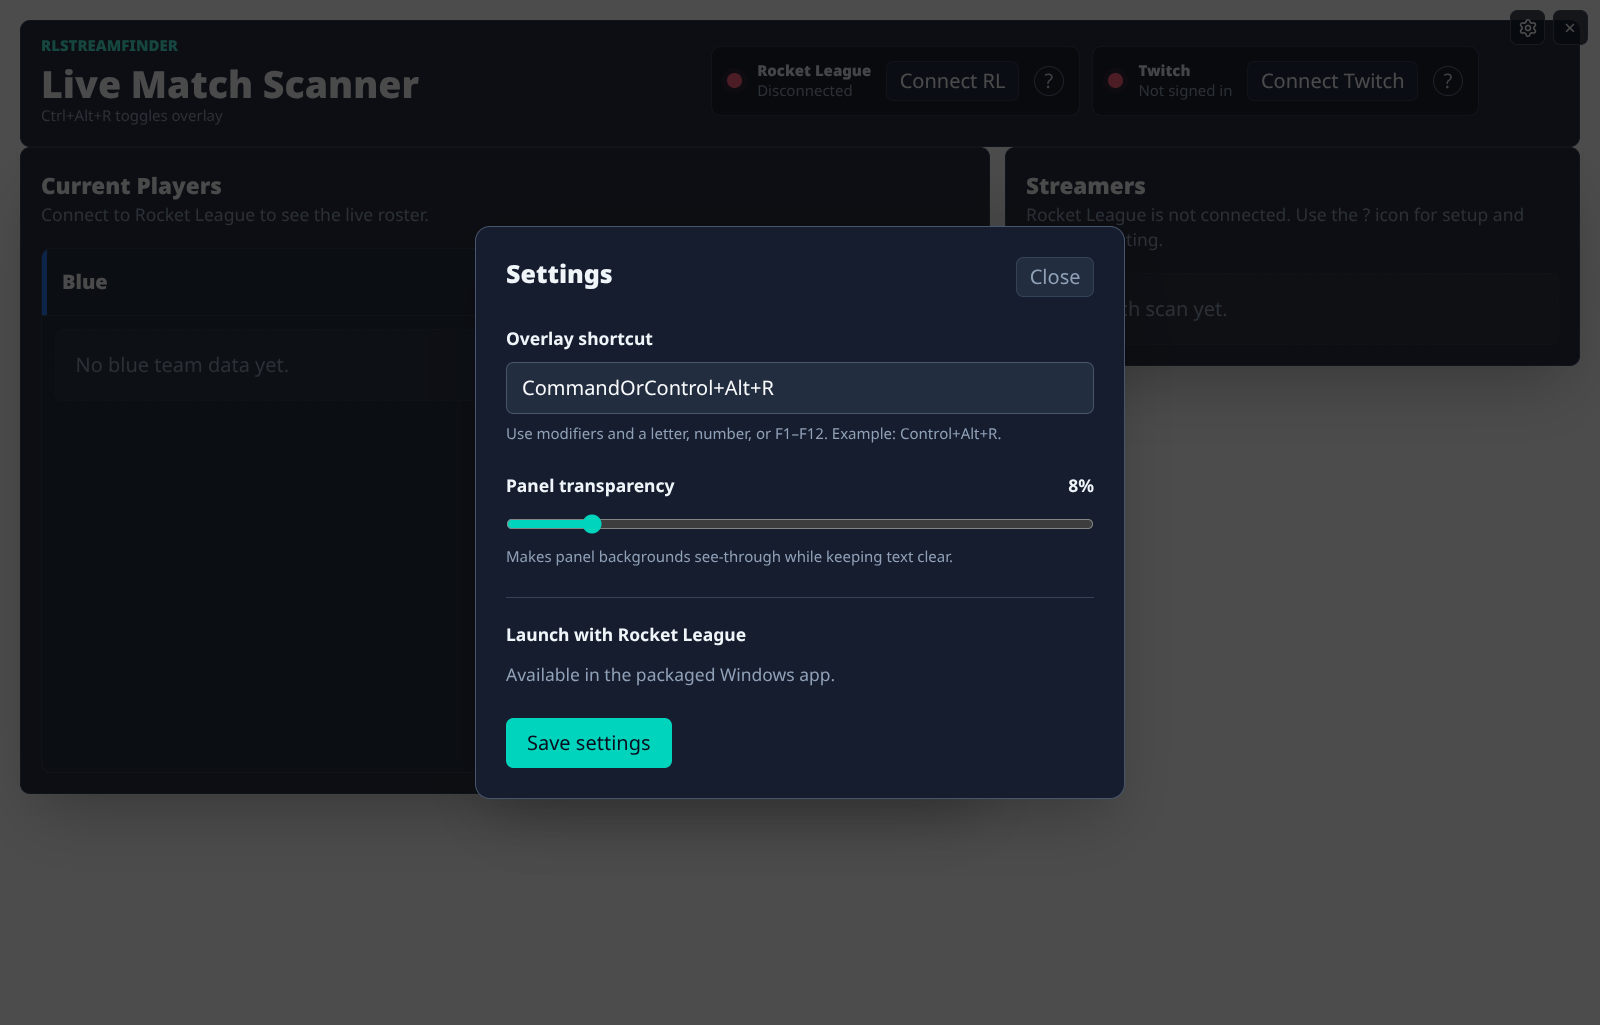
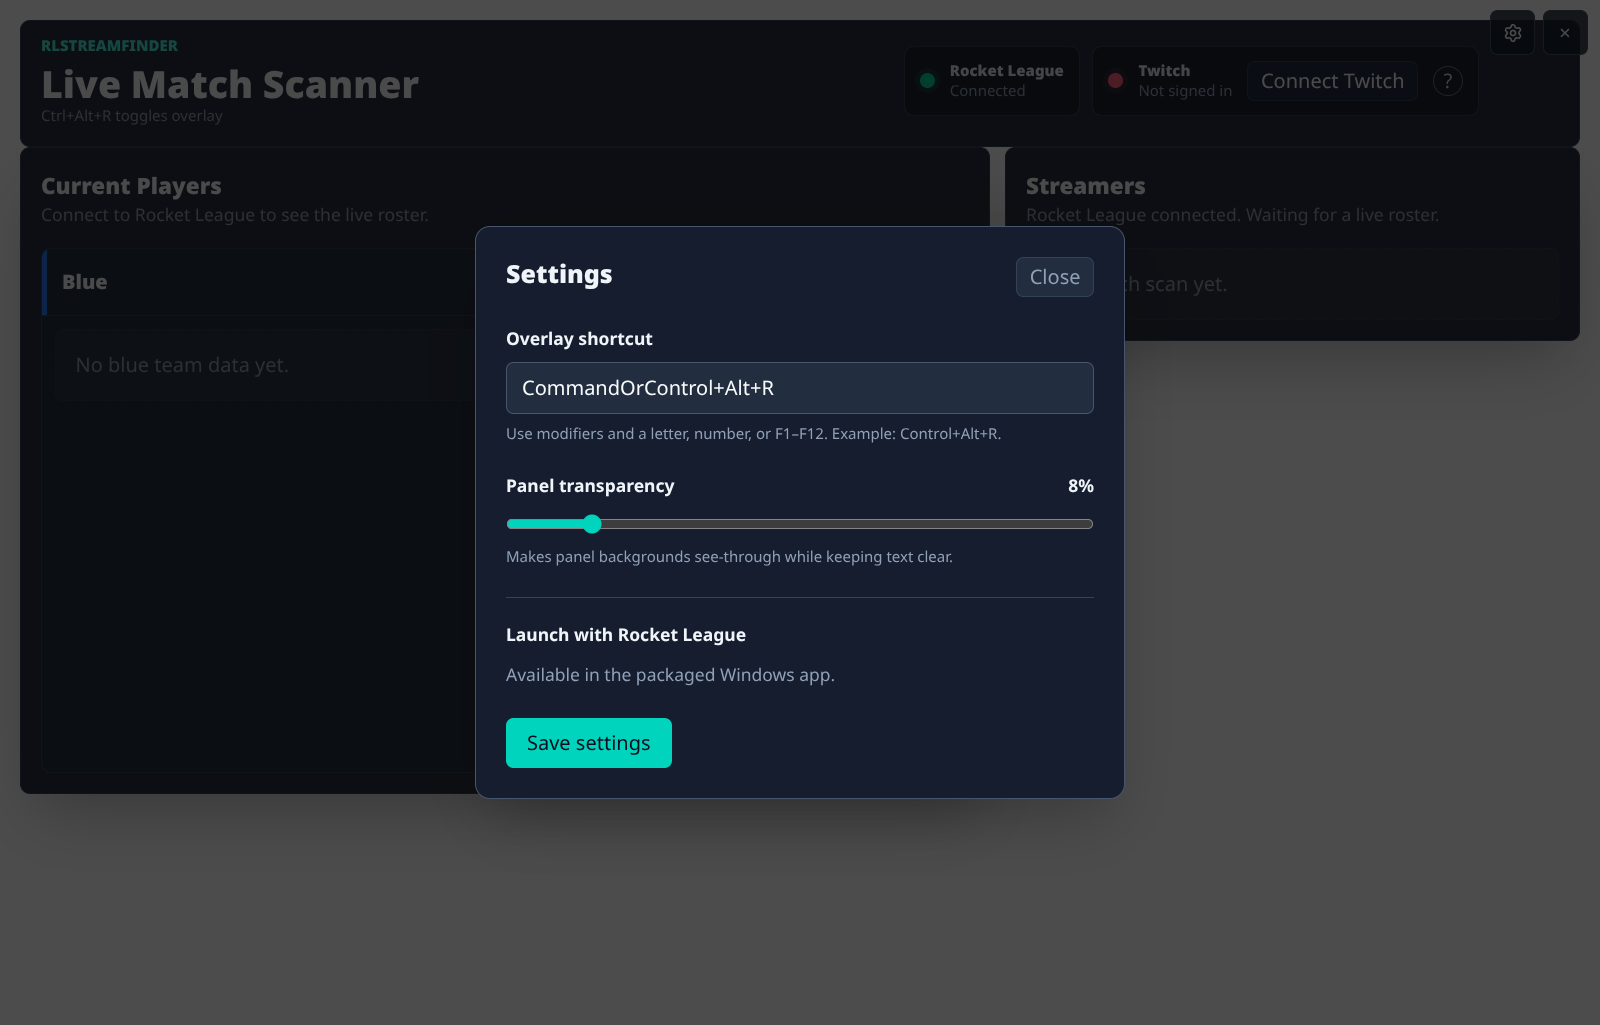
fix: make settings gear fully clickable

diff --git a/src/main/main.ts b/src/main/main.ts
@@ -15,7 +15,7 @@ import { RocketLeagueConnectionPoller } from "./services/rocket-league-poller";
 import { startWindowsUpdates } from "./services/app-updates";
 import { ensureLinuxDesktopEntry, LINUX_DESKTOP_NAME } from "./services/linux-desktop-entry";
 import { Channels, type WindowsStartupSettings } from "../shared/ipc-contracts";
-import { normalizeOverlayShortcut, validatePanelTransparency, type OverlaySettings } from "../shared/overlay-settings";
+import { equivalentOverlayShortcuts, normalizeOverlayShortcut, validatePanelTransparency, type OverlaySettings } from "../shared/overlay-settings";
 import { completeSetup, getLaunchWithRocketLeague, getOverlayPreferences, getSetupCompleted, setLaunchWithRocketLeague, setOverlayPreferences } from "./services/setup-preferences";
 import { checkPlayers } from "../shared/pipeline";
 import { TwitchApiError, TwitchAuthRequiredError, TwitchClient } from "./services/twitch";
@@ -332,29 +332,31 @@ function updateTrayMenu() {
 
 async function getOverlaySettings(): Promise<OverlaySettings> {
   const preferences = await getOverlayPreferences(app.getPath("userData"));
-  return { ...preferences, shortcutActive: registeredOverlayShortcut === preferences.shortcut };
+  return { ...preferences, shortcutActive: Boolean(registeredOverlayShortcut && equivalentOverlayShortcuts(registeredOverlayShortcut, preferences.shortcut, process.platform === "darwin")) };
 }
 
 async function setOverlaySettings(shortcut: string, panelTransparency: number): Promise<OverlaySettings> {
   const normalizedShortcut = normalizeOverlayShortcut(shortcut);
   validatePanelTransparency(panelTransparency);
   const previousShortcut = registeredOverlayShortcut;
-  const changedShortcut = normalizedShortcut !== previousShortcut;
-  if (changedShortcut && !globalShortcut.register(normalizedShortcut, toggleOverlay)) {
+  const effectiveShortcut = previousShortcut && equivalentOverlayShortcuts(previousShortcut, normalizedShortcut, process.platform === "darwin")
+    ? previousShortcut : normalizedShortcut;
+  const changedShortcut = effectiveShortcut !== previousShortcut;
+  if (changedShortcut && !globalShortcut.register(effectiveShortcut, toggleOverlay)) {
     throw new Error("That shortcut is unavailable. Choose another key combination.");
   }
   try {
-    await setOverlayPreferences(app.getPath("userData"), normalizedShortcut, panelTransparency);
+    await setOverlayPreferences(app.getPath("userData"), effectiveShortcut, panelTransparency);
   } catch (error) {
-    if (changedShortcut) globalShortcut.unregister(normalizedShortcut);
+    if (changedShortcut) globalShortcut.unregister(effectiveShortcut);
     throw error;
   }
   if (changedShortcut) {
     if (previousShortcut) globalShortcut.unregister(previousShortcut);
-    registeredOverlayShortcut = normalizedShortcut;
+    registeredOverlayShortcut = effectiveShortcut;
     updateTrayMenu();
   }
-  return { shortcut: normalizedShortcut, shortcutActive: true, panelTransparency };
+  return { shortcut: effectiveShortcut, shortcutActive: true, panelTransparency };
 }
 
 function stopWhenRocketLeagueCloses() {

diff --git a/test/e2e/electron-smoke.spec.ts b/test/e2e/electron-smoke.spec.ts
@@ -202,10 +202,23 @@ test("changes the global shortcut and panel transparency from the settings modal
   try {
     const page = await electronApp.firstWindow();
     await page.getByRole("button", { name: "Open match scanner" }).click();
-    await page.getByRole("button", { name: "Open settings" }).click();
+    const settingsButton = page.getByRole("button", { name: "Open settings" });
+    await expect(settingsButton).toBeVisible();
+    const settingsButtonBounds = await settingsButton.evaluate((button) => {
+      const { x, y, width, height } = button.getBoundingClientRect();
+      return { x, y, width, height };
+    });
+    await page.mouse.click(
+      settingsButtonBounds!.x + settingsButtonBounds!.width / 2,
+      settingsButtonBounds!.y + settingsButtonBounds!.height / 2,
+    );
     const dialog = page.getByRole("dialog", { name: "Settings" });
     await expect(dialog).toBeVisible();
     await page.screenshot({ path: testInfo.outputPath("settings-modal.png") });
+    await dialog.getByLabel("Overlay shortcut").fill("Ctrl+Alt+R");
+    await dialog.getByRole("button", { name: "Save settings" }).click();
+    await expect(dialog).toHaveCount(0);
+    await page.getByRole("button", { name: "Open settings" }).click();
     await dialog.getByLabel("Overlay shortcut").fill("Control+Alt+Y");
     await dialog.getByLabel("Panel transparency").focus();
     await dialog.getByLabel("Panel transparency").press("End");

diff --git a/test/overlay-settings.test.ts b/test/overlay-settings.test.ts
@@ -1,5 +1,5 @@
 import { expect, test } from "vitest";
-import { normalizeOverlayShortcut, validatePanelTransparency } from "../src/shared/overlay-settings";
+import { equivalentOverlayShortcuts, normalizeOverlayShortcut, validatePanelTransparency } from "../src/shared/overlay-settings";
 
 test("accepts configurable global shortcuts and normalizes modifier names", () => {
   expect(normalizeOverlayShortcut("ctrl + alt + r")).toBe("Control+Alt+R");
@@ -16,4 +16,9 @@ test("limits panel transparency to the readable range", () => {
   expect(validatePanelTransparency(0)).toBe(0);
   expect(validatePanelTransparency(60)).toBe(60);
   for (const value of [-1, 61, 5.5, Number.NaN]) expect(() => validatePanelTransparency(value)).toThrow();
+});
+
+test("treats Control and CommandOrControl as the same binding outside macOS", () => {
+  expect(equivalentOverlayShortcuts("CommandOrControl+Alt+R", "Control+Alt+R", false)).toBe(true);
+  expect(equivalentOverlayShortcuts("CommandOrControl+Alt+R", "Control+Alt+R", true)).toBe(false);
 });

diff --git a/src/renderer/src/main.tsx b/src/renderer/src/main.tsx
@@ -323,7 +323,7 @@ function App() {
     <main className="mx-auto w-full max-w-[1280px] p-4 text-slate-50" style={{ "--panel-opacity": (100 - (overlaySettings?.panelTransparency ?? DEFAULT_PANEL_TRANSPARENCY)) / 100 } as React.CSSProperties}>
       <div className="window-controls"><button type="button" onClick={() => setShowSettings(true)} aria-label="Open settings"><Settings size={16} /></button><button type="button" onClick={() => window.rocketLeagueViewer.hideWindow()} aria-label="Hide RLStreamFinder">×</button></div>
       <header className="adjustable-panel flex min-h-20 flex-wrap items-center justify-between gap-4 rounded-lg border border-slate-700 pb-4 pl-4 pr-20 pt-3">
-        <div>
+        <div className="scanner-drag-region">
           <p className="mb-1 text-xs font-black uppercase text-teal-300">RLStreamFinder</p>
           <h1 className="text-3xl font-black tracking-normal">Live Match Scanner</h1>
           <p className="text-xs text-slate-400">{shortcutLabel} toggles overlay</p>

diff --git a/src/renderer/src/styles.css b/src/renderer/src/styles.css
@@ -22,15 +22,16 @@ html, #root {
 }
 
 header {
-  -webkit-app-region: drag;
+  -webkit-app-region: no-drag;
 }
 
-header button, header a {
-  -webkit-app-region: no-drag;
+.scanner-drag-region {
+  -webkit-app-region: drag;
 }
 
 .window-titlebar {
   min-height: 32px;
+  width: calc(100% - 90px);
   -webkit-app-region: drag;
 }
 
@@ -45,8 +46,8 @@ header button, header a {
 }
 
 .window-controls button {
-  width: 28px;
-  height: 28px;
+  width: 36px;
+  height: 36px;
   border: 1px solid #475569;
   border-radius: 6px;
   background: #0f172acc;
@@ -55,6 +56,7 @@ header button, header a {
   display: inline-flex;
   align-items: center;
   justify-content: center;
+  -webkit-app-region: no-drag;
 }
 
 .adjustable-panel {

diff --git a/src/shared/overlay-settings.ts b/src/shared/overlay-settings.ts
@@ -45,3 +45,8 @@ export function validatePanelTransparency(value: number): number {
   }
   return value;
 }
+
+export function equivalentOverlayShortcuts(first: string, second: string, onMac: boolean): boolean {
+  const platformModifier = onMac ? "Meta" : "Control";
+  return first.replace("CommandOrControl", platformModifier) === second.replace("CommandOrControl", platformModifier);
+}
